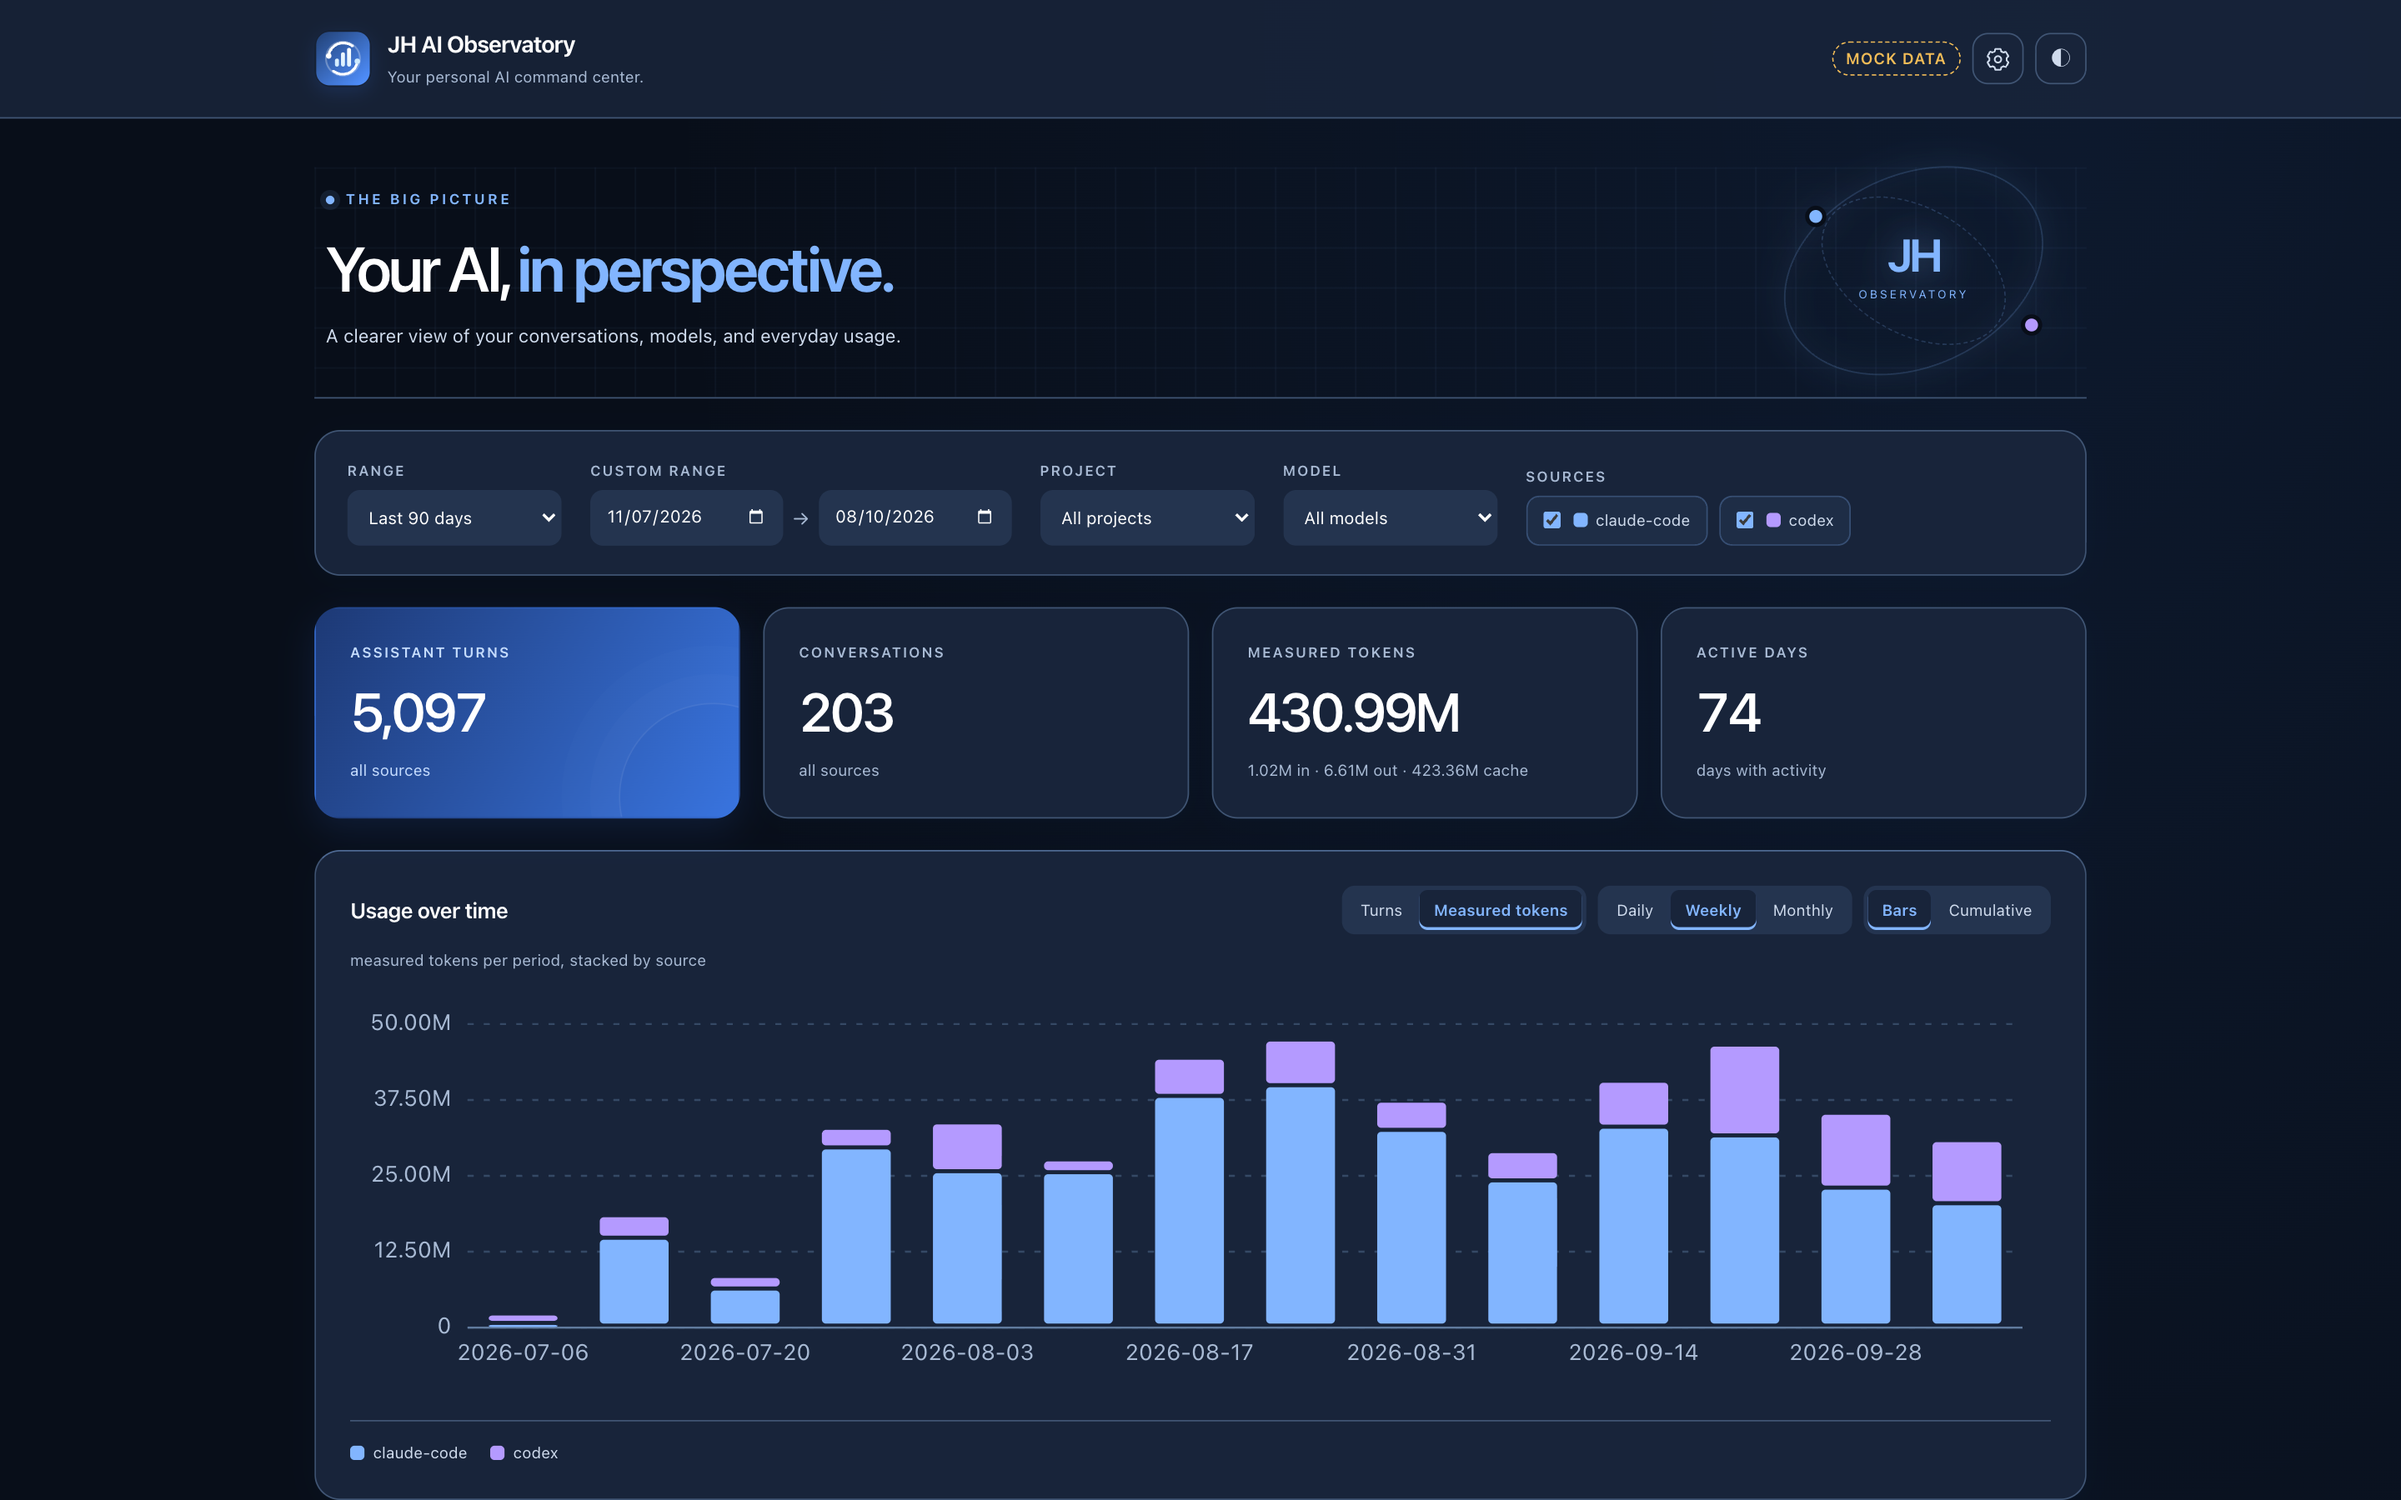
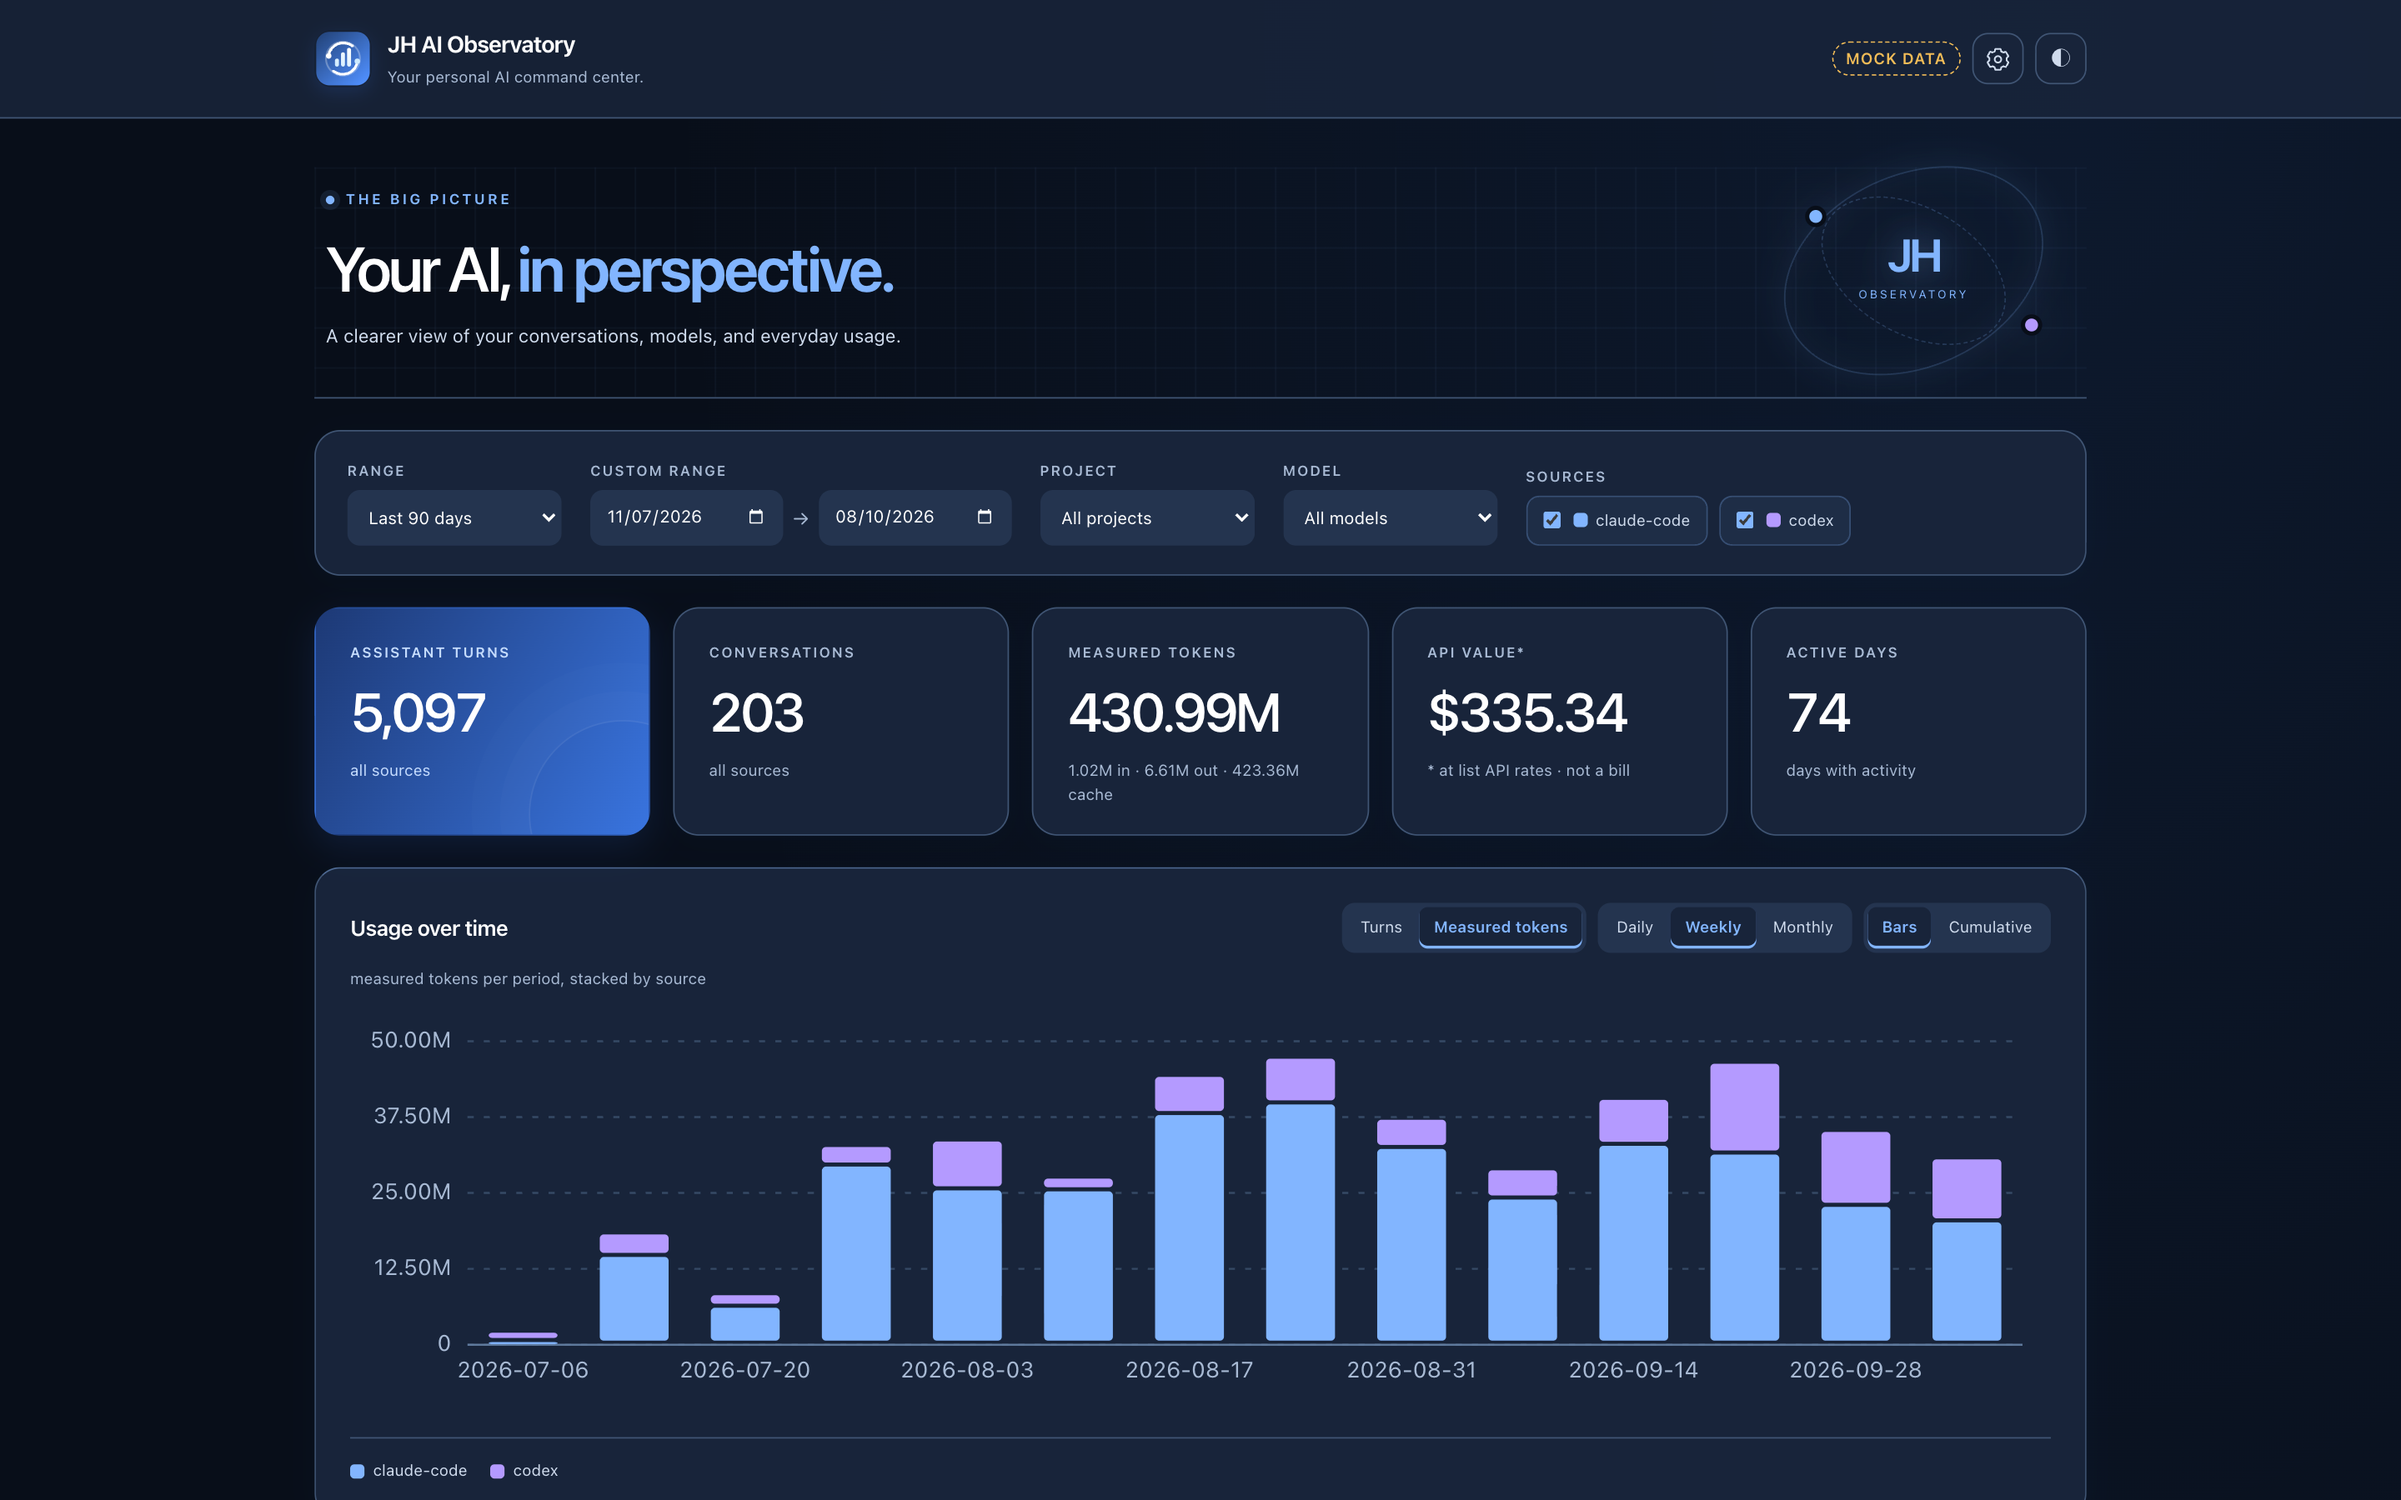
feat: show API value* in the KPI row (#5)

diff --git a/web/styles.css b/web/styles.css
@@ -617,7 +617,7 @@ select:hover, input[type="date"]:hover { border-color: var(--border); }
 .checks label { padding: 8px 11px; border-radius: 9px; border: 1px solid var(--border); background: var(--surface-1); font-size: 11px; transition: background .18s; }
 .checks label:has(input:checked) { border-color: color-mix(in srgb, var(--accent) 25%, transparent); background: color-mix(in srgb, var(--accent) 6%, var(--surface-1)); }
 .checks input { accent-color: var(--accent); width: 12px; height: 12px; margin: 0 3px 0 0; }
-.kpi-row { gap: 16px; grid-template-columns: repeat(4, minmax(0, 1fr)); }
+.kpi-row { gap: 16px; grid-template-columns: repeat(5, minmax(0, 1fr)); }
 .kpi { position: relative; overflow: hidden; padding: 23px 24px 20px; min-height: 148px; box-shadow: var(--elevation); }
 .kpi .label { font-size: 10px; letter-spacing: .105em; font-weight: 600; }
 .kpi .value, .kpi .value.hero { font-size: clamp(27px, 3vw, 38px); font-weight: 550; letter-spacing: -.055em; margin-top: 10px; line-height: 1.25; font-variant-numeric: tabular-nums; }
@@ -655,7 +655,7 @@ th, td { padding: 12px; font-size: 12px; }th { font-size: 10px; }
 @media (max-width: 820px) {
   .topbar { padding: 16px 20px; }.freshness { display: none; }
   main { padding: 24px 20px 36px; gap: 18px; }.overview-mark { width: 145px; margin-right: 0; }
-  .kpi-row { grid-template-columns: repeat(2, minmax(0, 1fr)); }.grid-2 { gap: 18px; }
+  .kpi-row { grid-template-columns: repeat(2, minmax(0, 1fr)); }.kpi:last-child:nth-child(odd) { grid-column: 1 / -1; }.grid-2 { gap: 18px; }
   .filters { gap: 14px; }.filter-group { flex: 1 1 140px; min-width: 0; }
   .filter-group select { width: 100% !important; min-width: 0; }
   #custom-range { flex-basis: 100%; }.date-inputs input { width: 100%; min-width: 0; }

diff --git a/web/app.js b/web/app.js
@@ -487,6 +487,12 @@ function renderKPIs(t) {
         ? `${fmtCompact(mt.input)} in · ${fmtCompact(mt.output)} out · ${fmtCompact(mt.cacheRead + mt.cacheWrite)} cache`
         : 'no source in range reports tokens',
     },
+    {
+      label: 'API value*',
+      value: mt.total && t.unpricedTurns < t.measuredTurns ? state.money(t.apiValue) : DASH,
+      sub: '* at list API rates · not a bill',
+      title: 'Measured tokens priced at reference API rates. Not what you were charged.',
+    },
     { label: 'Active days', value: fmtInt(t.activeDays), sub: 'days with activity' },
   ]);
 }
@@ -495,7 +501,7 @@ function fillKpiRow(row, kpis) {
   row.innerHTML = '';
   kpis.forEach((k) => {
     row.appendChild(
-      h('div', { class: 'kpi' }, [
+      h('div', { class: 'kpi', ...(k.title ? { title: k.title } : {}) }, [
         h('div', { class: 'label' }, k.label),
         h('div', { class: 'value' + (k.hero ? ' hero' : '') }, k.value),
         h('div', { class: 'sub' }, k.sub),

diff --git a/README.md b/README.md
@@ -39,7 +39,7 @@ JH AI Observatory is intentionally strict about its numbers.
 
 #### Overview
 
-Turns, conversations, measured tokens and active days at a glance, plus a usage-over-time chart you can switch between turns and tokens, daily, weekly or monthly, and bars or cumulative.
+Turns, conversations, measured tokens, API value\* and active days at a glance, plus a usage-over-time chart you can switch between turns and tokens, daily, weekly or monthly, and bars or cumulative.
 
 #### Breakdowns
 
